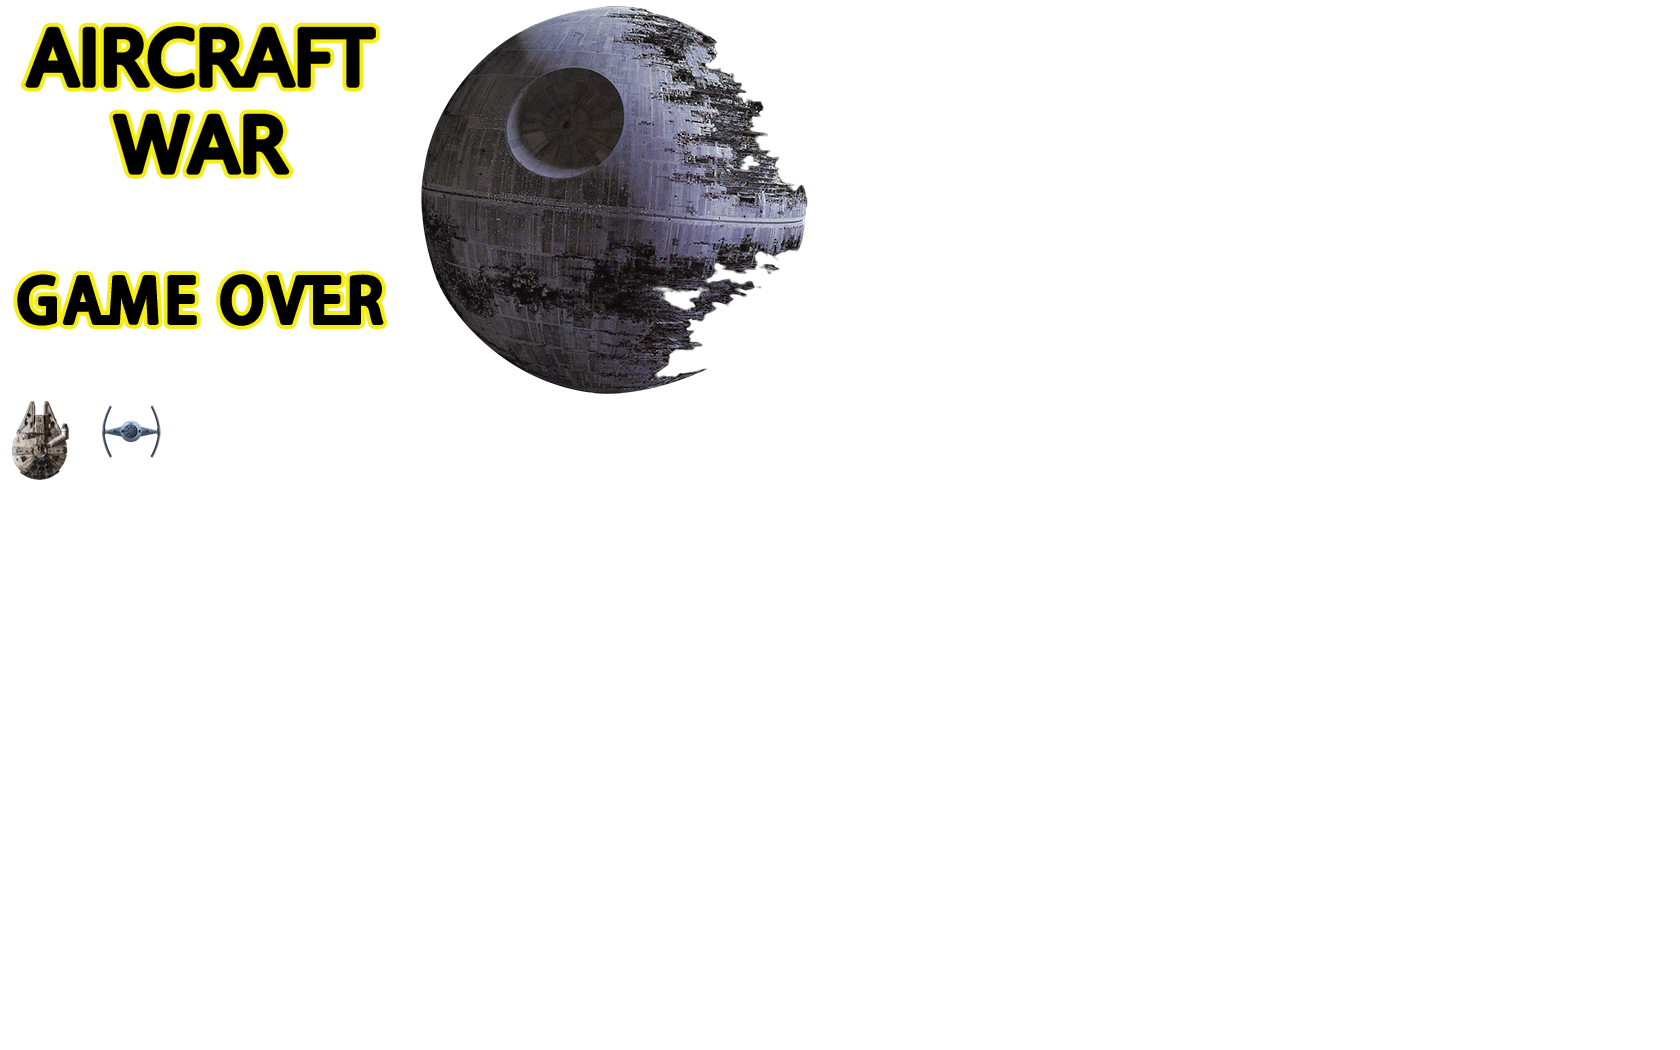
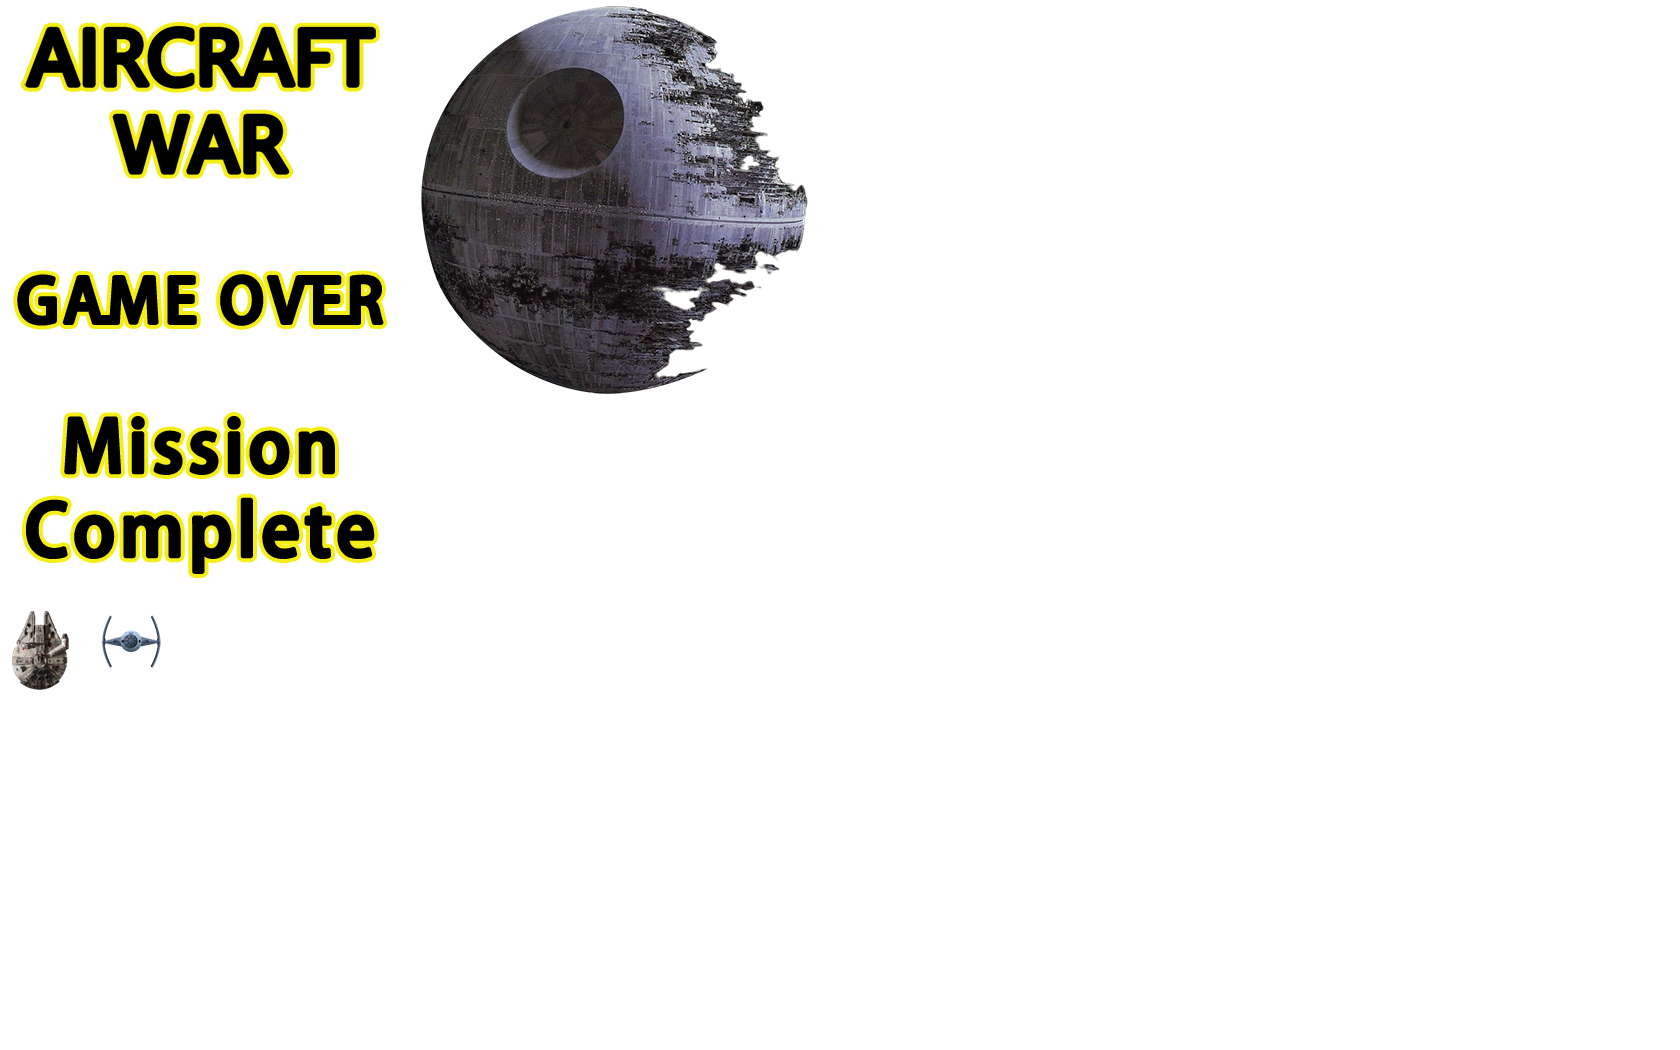
update

Changed region(s): [[0.0, 0.3657, 0.2476, 0.5486], [0.0, 0.579, 0.0929, 0.6705]]

diff --git a/project/canvas-aircraftWar/aircraftWar.js b/project/canvas-aircraftWar/aircraftWar.js
@@ -68,19 +68,24 @@ function imageLoaded() {
 
 function game() {
   data.element.startText = new StartText();
+
   if (data.system.mobile) {
-    canvas.addEventListener('touchend', init, false);
+    canvas.addEventListener('touchend', function() {
+      init(0, 0);
+    }, false);
   } else {
-    canvas.addEventListener('click', init, false);
+    canvas.addEventListener('click', function() {
+      init(0, 0);
+    }, false);
   }
 }
 
-function init() {
+function init(score, passIndex) {
   canvas.removeEventListener('touchend', init);
   canvas.removeEventListener('click', init);
   data.system.start = true;
   var ele = data.element;
-  ele.startText.firstGame = false;
+  ele.startText = null;
   ele.star = new Star();
   ele.star.init();
   ele.blast = new Blast();
@@ -88,10 +93,11 @@ function init() {
   ele.bullet = new Bullet();
   ele.bullet.init();
   ele.hostileAirplane = new HostileAirplane();
+  ele.boss = null;
   ele.millenniumFalcon = new MillenniumFalcon();
-  ele.millenniumFalcon.init();
+  ele.millenniumFalcon.init(score);
   data.passThrough = new PassThrough();
-  data.passThrough.init();
+  data.passThrough.init(passIndex);
   clearLimitsElement();
   if (data.system.mobile) {
     canvas.addEventListener('touchstart', millenniumFalconMoveInMobile, false);
@@ -122,6 +128,10 @@ function gameloop() {
 function gameover() {
   setTimeout(function() {
     data.system.start = false;
+    data.element.startText = new StartText();
+    data.element.startText.init({
+      firstGame: false
+    });
   }, 500);
 
   if (data.system.mobile) {
@@ -145,7 +155,8 @@ function drawImage() {
     ele.millenniumFalcon.airDraw(cxt);
     ele.millenniumFalcon.infoDraw(cxt);
     ele.blast.draw(cxt);
-  } else {
+  }
+  if (ele.startText) {
     ele.startText.draw(cxt);
   }
 }
@@ -155,13 +166,19 @@ function StartText() {
   this.y = 200;
   this.textAlpha = 1;
   this.firstGame = true;
+  this.complete = false;
   this.picState = 1; //0下降，1上升
   this.textState = 0; //0减弱，1增强
   this.position = [
     [0, 0],
-    [0, 200]
+    [0, 200],
+    [0, 400]
   ];
 
+  this.init = function(attribute) {
+    this.firstGame = attribute.firstGame;
+    this.complete = attribute.complete;
+  }
   this.textAlpahChange = function() {
     if (this.textState) {
       this.textAlpha += data.system.time.delta * 0.005;
@@ -193,11 +210,18 @@ function StartText() {
     this.startPicFloat();
     cxt.save();
     cxt.translate(this.x, this.y);
+
+    var posIndex;
     if (this.firstGame) {
-      cxt.drawImage(data.image, this.position[0][0], this.position[0][1], 400, 200, -200, -100, 400, 200);
+      posIndex = 0;
     } else {
-      cxt.drawImage(data.image, this.position[1][0], this.position[1][1], 400, 200, -200, -100, 400, 200);
+      if (this.complete) {
+        posIndex = 2;
+      } else {
+        posIndex = 1;
+      }
     }
+    cxt.drawImage(data.image, this.position[posIndex][0], this.position[posIndex][1], 400, 200, -200, -100, 400, 200);
     cxt.restore();
 
     cxt.save();
@@ -212,7 +236,12 @@ function StartText() {
     if (this.firstGame) {
       cxt.fillText("点击以开始游戏", 200, 500);
     } else {
-      cxt.fillText("点击重新开始游戏", 200, 500);
+      if (this.complete) {
+        cxt.fillText("恭喜通过第" + data.passThrough.num + "关", 200, 500);
+      } else {
+        cxt.fillText("点击重新开始游戏", 200, 500);
+      }
+
     }
     cxt.restore();
   }
@@ -307,13 +336,13 @@ function MillenniumFalcon() {
   }
   this.time;
 
-  this.init = function() {
+  this.init = function(score) {
     var self = this;
     this.x = 200;
     this.y = 500;
-    this.score = 0;
-    this.health = 100;
-    this.maxHealth = 100;
+    this.score = score;
+    this.health = 30;
+    this.maxHealth = 30;
     this.invincible = false;
     this.dieState = false;
     this.targetInMobile = {
@@ -369,6 +398,36 @@ function MillenniumFalcon() {
     this.x += vx * delta * 0.5;
     this.y += vy * delta * 0.5;
   }
+  this.clearance = function() {
+    var self = this,
+      delta = data.system.time.delta;
+
+    document.removeEventListener('keydown', millenniumFalconMove);
+    document.removeEventListener('keyup', millenniumFalconMoveEnd);
+
+    data.element.startText = new StartText();
+    data.element.startText.init({
+      complete: true
+    });
+    requestAnimationFrame(_moveUp);
+
+    function _moveUp() {
+      self.y -= delta * 0.5;
+      if (self.y > 0) {
+        requestAnimationFrame(_moveUp);
+      } else {
+        if (data.system.mobile) {
+          canvas.addEventListener('touchend', function() {
+            init(self.score, data.passThrough.num);
+          }, false);
+        } else {
+          canvas.addEventListener('click', function() {
+            init(self.score, data.passThrough.num);
+          }, false);
+        }
+      }
+    }
+  }
   this.die = function() {
     this.radius = 0;
     this.width = 0;
@@ -398,7 +457,7 @@ function MillenniumFalcon() {
 
     cxt.save();
     cxt.translate(this.x, this.y); //坐标原点位于飞机中心
-    cxt.drawImage(data.image, 0, 400, this.width, this.height, -this.width / 2, -this.height / 2, this.width, this.height);
+    cxt.drawImage(data.image, 0, 610, this.width, this.height, -this.width / 2, -this.height / 2, this.width, this.height);
     cxt.restore();
   }
   this.infoDraw = function(cxt) {
@@ -467,7 +526,7 @@ function HostileAirplane() {
       cxt.save();
       cxt.translate(this.airplane[i].x, this.airplane[i].y); //坐标原点位于飞机中心
       cxt.rotate(this.airplane[i].rotate * Math.PI / 180);
-      cxt.drawImage(data.image, 100, 400, 60, 60, -30, -30, 40, 40);
+      cxt.drawImage(data.image, 100, 610, 60, 60, -30, -30, 40, 40);
       cxt.restore();
     }
   }
@@ -612,13 +671,13 @@ function Boss(attribute) {
       setTimeout(function() {
         blast.create(self.x, self.y, 150);
         ele.millenniumFalcon.score += self.score;
+        ele.millenniumFalcon.clearance();
         data.element.boss = null;
       }, 2500);
     }
   }
 
   this.draw = function(cxt) {
-    //console.log(this.health);
     if (!this.appearState) {
       this.appear();
     } else {
@@ -806,15 +865,17 @@ function Star() {
 
 function PassThrough() {
   this.pass = [];
+  this.num;
 
-  this.init = function() {
+  this.init = function(num) {
     for (var i = 0; i < 6; i++) {
       this.pass[i] = this['pass' + parseInt(i + 1)];
     }
-    this.pass[0]();
+    this.pass[num](this);
   }
 
-  this.pass1 = function() {
+  this.pass1 = function(self) {
+    self.num = 1;
     var ele = data.element,
       air = ele.hostileAirplane;
 
@@ -882,8 +943,143 @@ function PassThrough() {
     }
   }
 
-  this.pass2 = function() {}
-  this.pass3 = function() {}
+  this.pass2 = function(self) {
+    self.num = 2;
+    var ele = data.element,
+      air = ele.hostileAirplane;
+
+    /* 1秒后第1波敌机 */
+    createAir(1, 10, 0);
+    createAir(1, 10, 1);
+
+    /* 12秒后第2波敌机 */
+    createAir(12, 10, 2);
+    createAir(12, 10, 3);
+
+    /* 18秒后BOSS出现 */
+    createAir(18, 1, 4);
+
+    function createAir(time, num, type) {
+      setTimeout(function() {
+        switch (type) {
+          case 0:
+            _createY(num, 100, 1.5, 5, 0, 1, 2, 10);
+            break;
+          case 1:
+            _createY(num, 300, -1.5, 5, 0, 1, 2, 10);
+            break;
+          case 2:
+            _createSin(num, 5, 0, 1, 2, 10);
+            break;
+          case 3:
+            _createSin(num, 5, 720, 1, 2, 10);
+            break;
+          case 4:
+            data.element.boss = new Boss({
+              type: 0,
+              health: 100,
+              attack: {
+                on: false,
+                value: 5,
+              },
+              radius: 150,
+              score: 100
+            });
+            data.element.boss.init();
+            break;
+        }
+      }, time * 1000);
+    }
+
+    function _createY(num, x, vx, vy, rotate, attack, health, score) {
+      air.create(x, -40, vx, vy, 20, rotate, attack, health, score, 0);
+      if (num > 0) {
+        num--;
+        setTimeout(function() {
+          _createY(num, x, vx, vy, rotate, attack, health, score);
+        }, 800);
+      }
+    }
+
+    function _createSin(num, vy, rotate, attack, health, score) {
+      air.create(0, -40, 0, vy, 20, rotate, attack, health, score, 1);
+      if (num > 0) {
+        num--;
+        setTimeout(function() {
+          _createSin(num, vy, rotate, attack, health, score);
+        }, 200);
+      }
+    }
+  }
+
+  this.pass3 = function(self) {
+    self.num = 3;
+    var ele = data.element,
+      air = ele.hostileAirplane;
+
+    /* 1秒后第1波敌机 */
+    createAir(1, 10, 0);
+    createAir(1, 10, 1);
+
+    /* 12秒后第2波敌机 */
+    createAir(12, 10, 2);
+    createAir(12, 10, 3);
+
+    /* 18秒后BOSS出现 */
+    createAir(18, 1, 4);
+
+    function createAir(time, num, type) {
+      setTimeout(function() {
+        switch (type) {
+          case 0:
+            _createY(num, 100, 1.5, 5, 0, 1, 2, 10);
+            break;
+          case 1:
+            _createY(num, 300, -1.5, 5, 0, 1, 2, 10);
+            break;
+          case 2:
+            _createSin(num, 5, 0, 1, 2, 10);
+            break;
+          case 3:
+            _createSin(num, 5, 720, 1, 2, 10);
+            break;
+          case 4:
+            data.element.boss = new Boss({
+              type: 0,
+              health: 100,
+              attack: {
+                on: false,
+                value: 5,
+              },
+              radius: 150,
+              score: 100
+            });
+            data.element.boss.init();
+            break;
+        }
+      }, time * 1000);
+    }
+
+    function _createY(num, x, vx, vy, rotate, attack, health, score) {
+      air.create(x, -40, vx, vy, 20, rotate, attack, health, score, 0);
+      if (num > 0) {
+        num--;
+        setTimeout(function() {
+          _createY(num, x, vx, vy, rotate, attack, health, score);
+        }, 800);
+      }
+    }
+
+    function _createSin(num, vy, rotate, attack, health, score) {
+      air.create(0, -40, 0, vy, 20, rotate, attack, health, score, 1);
+      if (num > 0) {
+        num--;
+        setTimeout(function() {
+          _createSin(num, vy, rotate, attack, health, score);
+        }, 200);
+      }
+    }
+  }
 }
 
 function drawBackground(cxt) {
